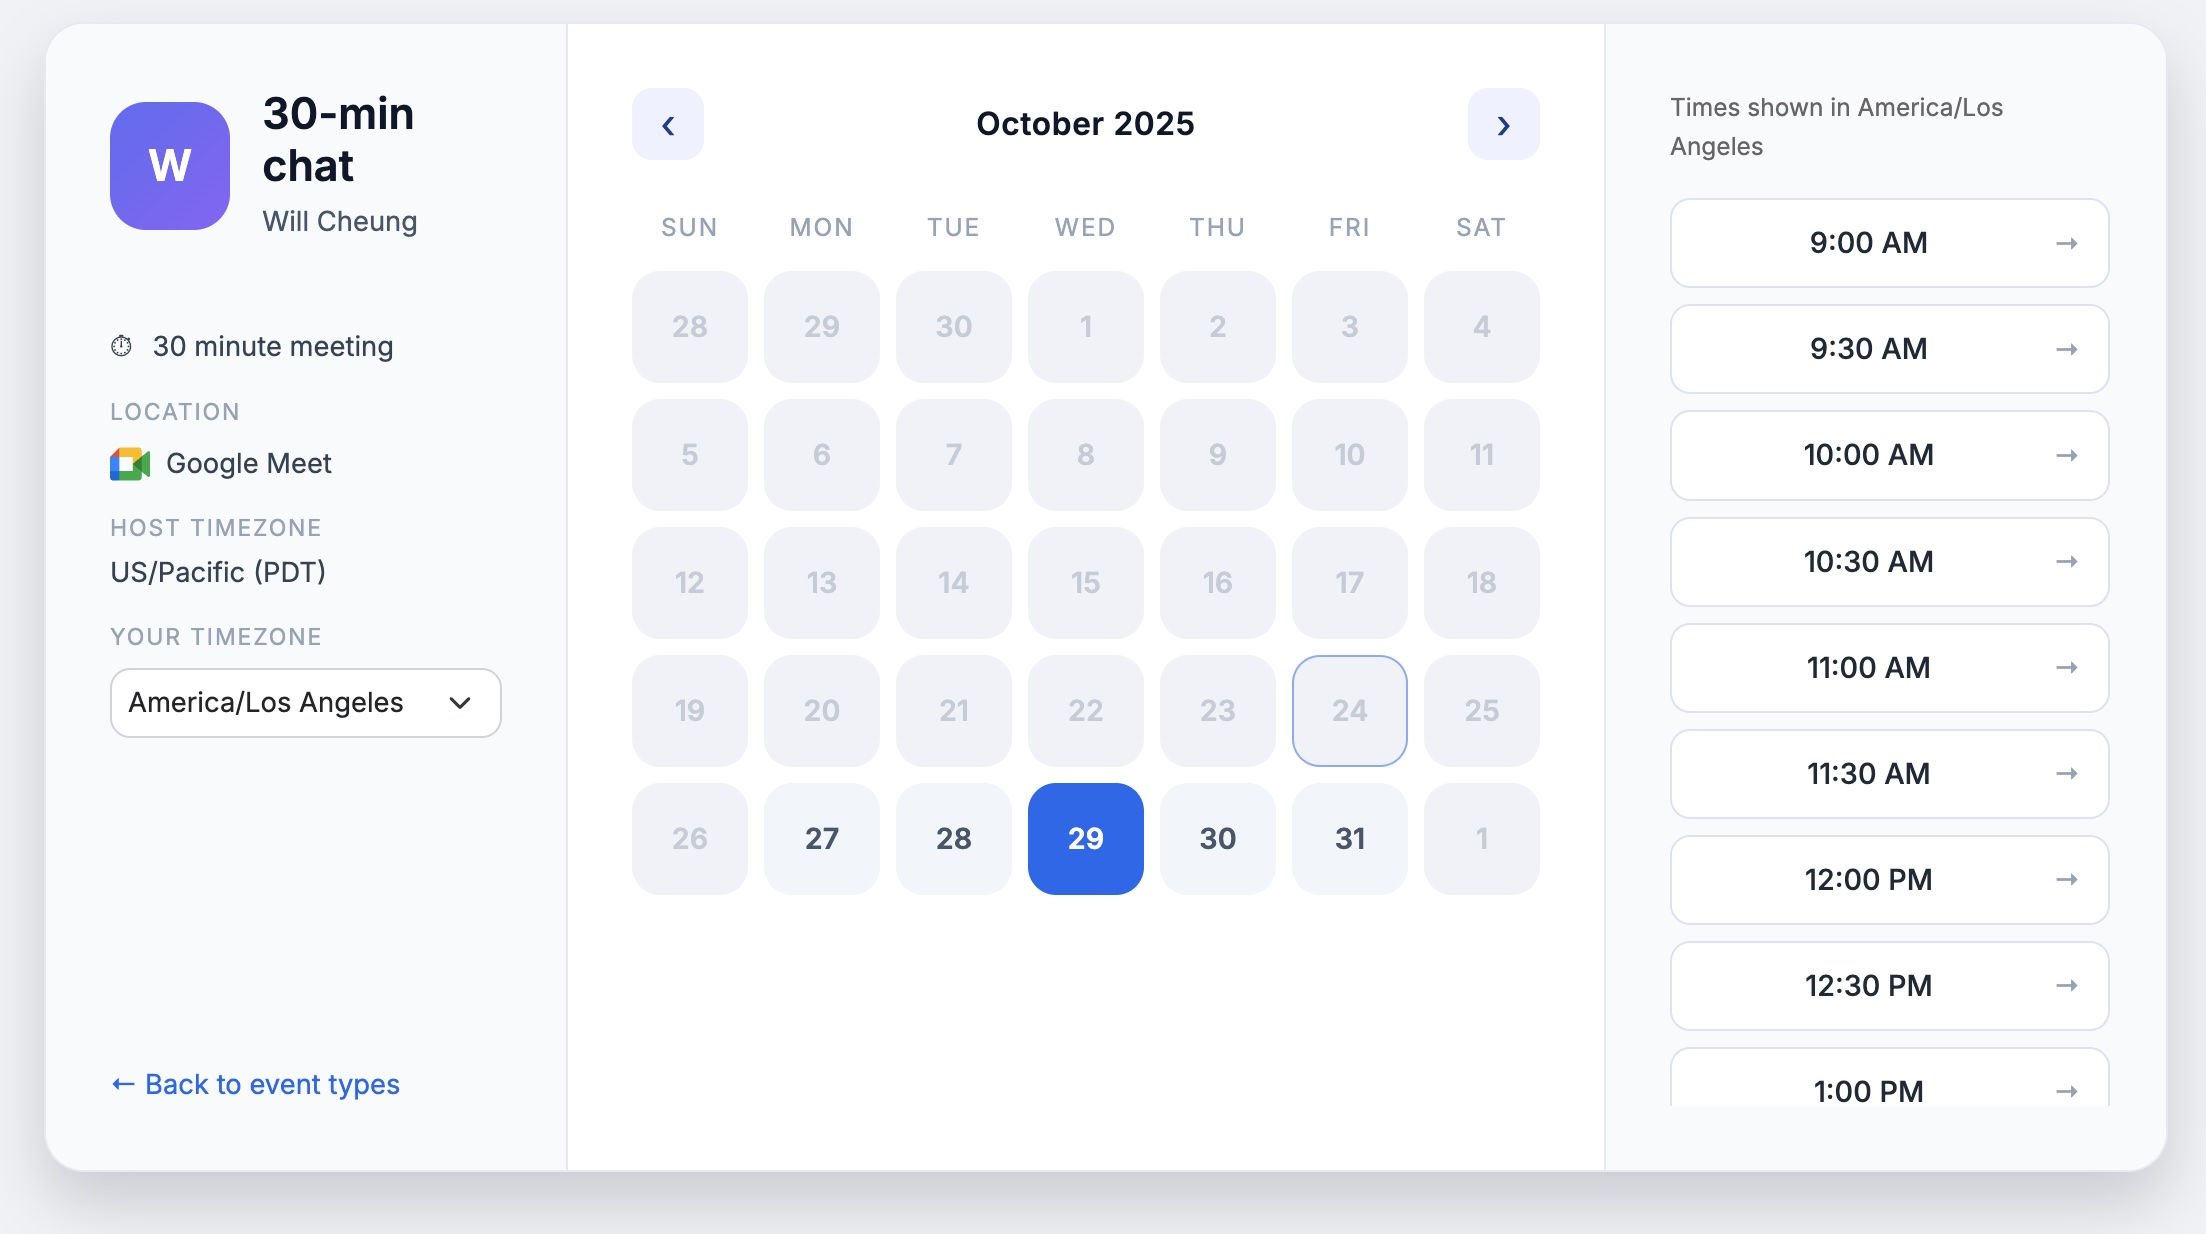
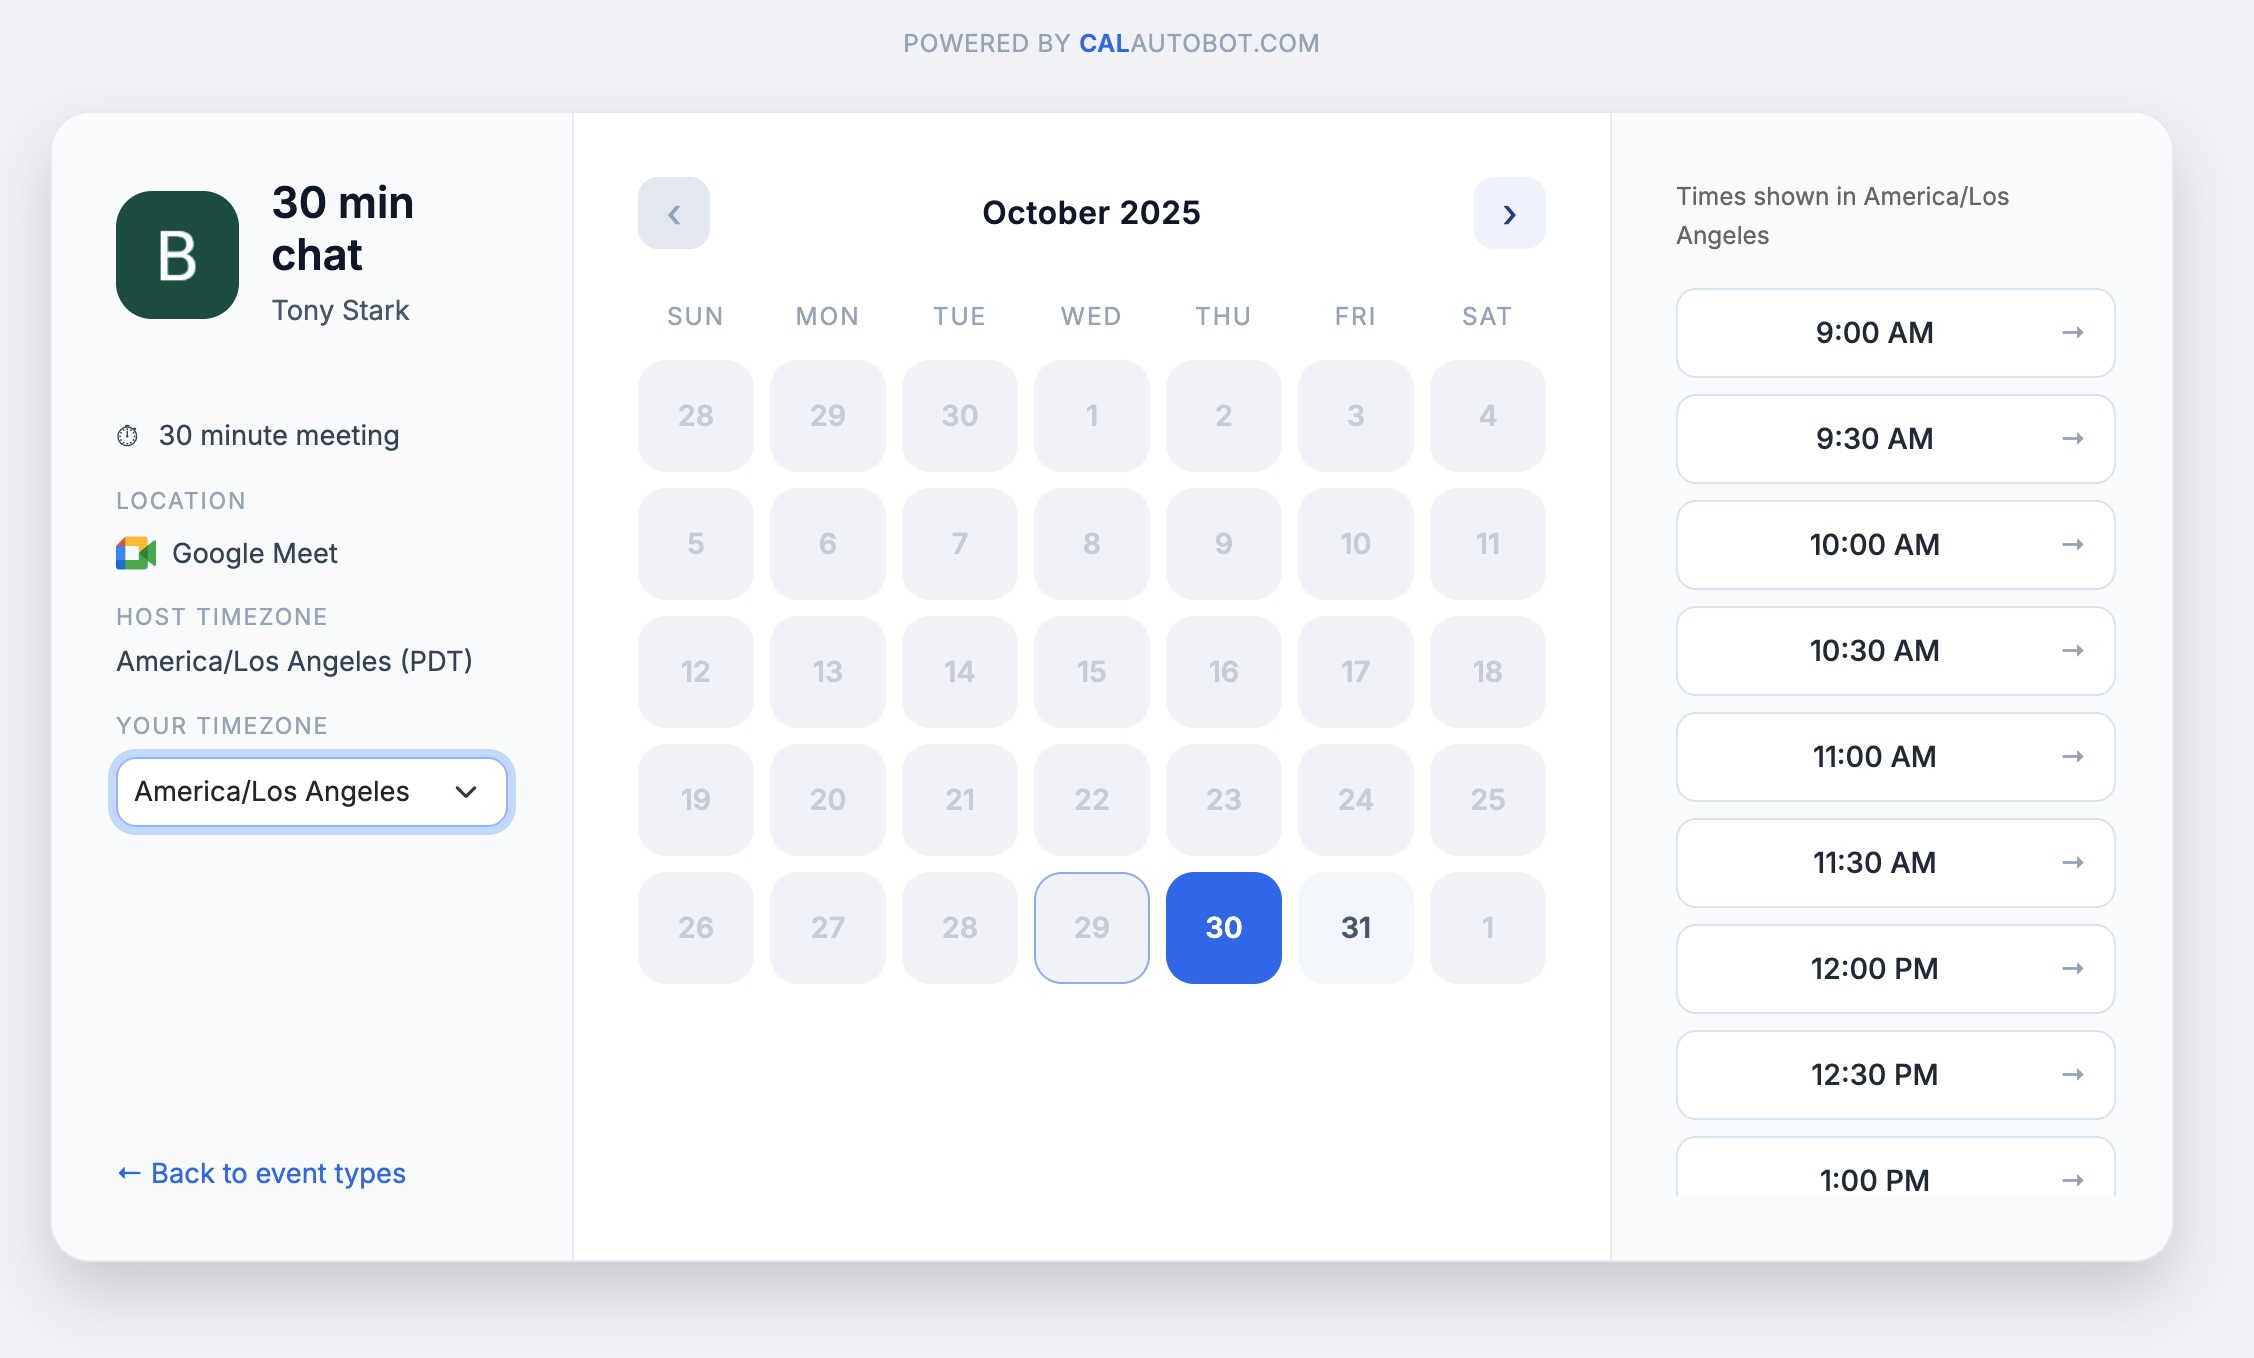
Changed homepage images.

diff --git a/app/templates/index.html b/app/templates/index.html
@@ -760,10 +760,10 @@
             </div>
 
             <div class="intro-card">
-                <h3>We get timezones</h3>
-                <p>Colleagues in Sydney, clients in New York? Cal replies with localized times without you lifting a finger.</p>
+                <h3>Contacts with intelligent columns</h3>
+                <p>Cal saves every contact in one place. See follow-ups and last interaction date at a glance.</p>
                 <div class="intro-card__media">
-                    <img src="{{ url_for('static', filename='images/product-timezone.jpg') }}" alt="Availability comparison across global timezones" loading="lazy">
+                    <img src="{{ url_for('static', filename='images/product-contacts.jpg') }}" alt="Availability comparison across global timezones" loading="lazy">
                 </div>
             </div>
 
@@ -894,6 +894,12 @@
                                 <td><span class="check-icon">✓</span> Automatic</td>
                                 <td><span class="check-icon">✓</span> Automatic</td>
                                 <td><span class="cross-icon">✗</span> Manual entry</td>
+                            </tr>
+                            <tr>
+                                <td><strong>Timezones</strong></td>
+                                <td><span class="check-icon">✓</span> Yes</td>
+                                <td><span class="check-icon">✓</span> Yes</td>
+                                <td><span class="cross-icon">✗</span> Manual conversion</td>
                             </tr>
                             <tr>
                                 <td><strong>App required</strong></td>
